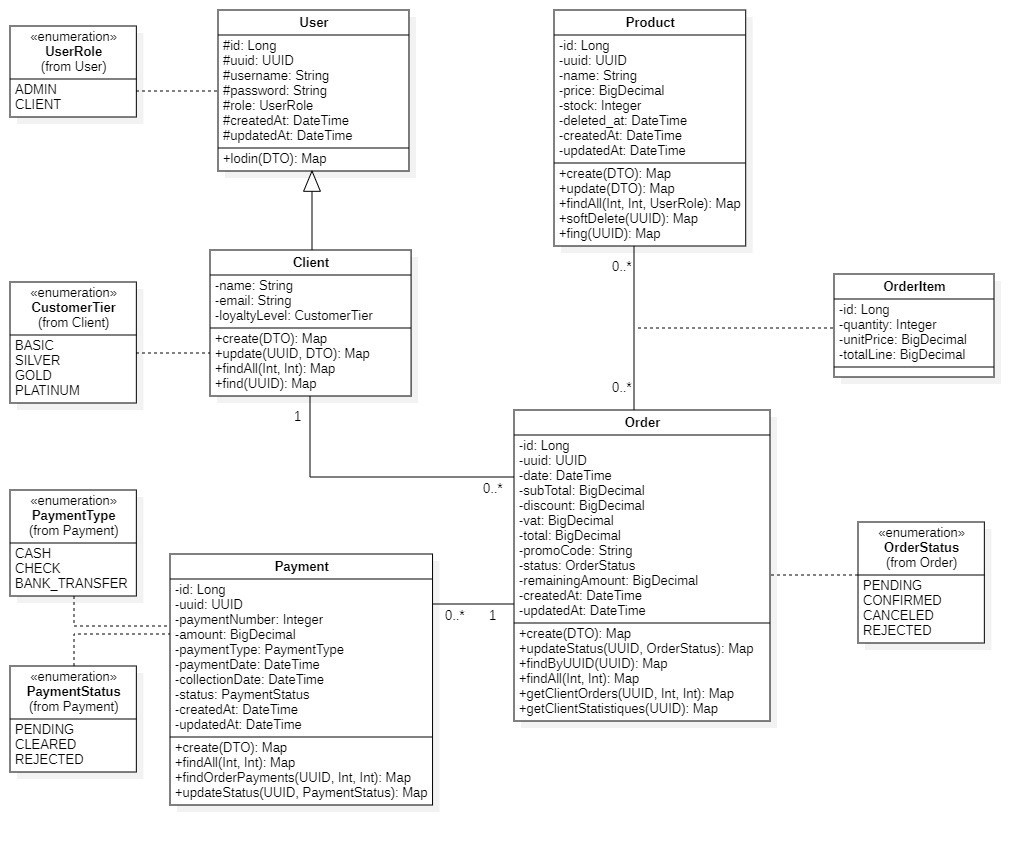
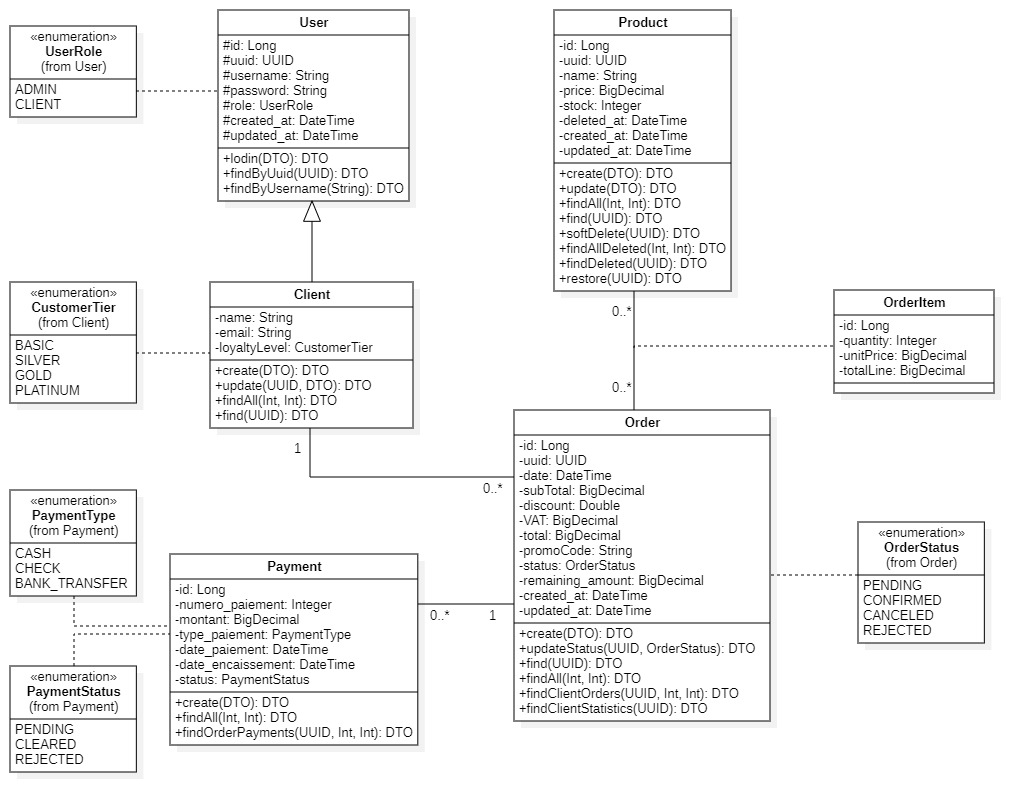
SMAR-42 Cree les interfaces OrderService et OrderRepository

diff --git a/src/main/java/com/smartshop/smartshop/service/interfaces/OrderService.java b/src/main/java/com/smartshop/smartshop/service/interfaces/OrderService.java
@@ -1,0 +1,16 @@
+package com.smartshop.smartshop.service.interfaces;
+
+import com.smartshop.smartshop.model.dto.ApiResponse;
+import com.smartshop.smartshop.model.dto.OrderDTO;
+
+import java.util.List;
+import java.util.UUID;
+
+public interface OrderService {
+    ApiResponse<OrderDTO> create(OrderDTO dto);
+    ApiResponse<OrderDTO> update(UUID uuid, OrderDTO dto);
+    ApiResponse<List<OrderDTO>> findAll(Integer page, Integer size);
+    ApiResponse<OrderDTO> find(UUID uuid);
+    ApiResponse<List<OrderDTO>> findClientOrders(UUID uuid, Integer page, Integer size);
+    ApiResponse<OrderDTO> findClientStatistics(UUID uuid);
+}

diff --git a/src/main/java/com/smartshop/smartshop/repository/OrderRepository.java b/src/main/java/com/smartshop/smartshop/repository/OrderRepository.java
@@ -1,0 +1,13 @@
+package com.smartshop.smartshop.repository;
+
+import com.smartshop.smartshop.model.entity.Order;
+import org.springframework.data.domain.Page;
+import org.springframework.data.domain.Pageable;
+import org.springframework.data.jpa.repository.JpaRepository;
+
+import java.util.Optional;
+import java.util.UUID;
+
+public interface OrderRepository extends JpaRepository<Order, UUID> {
+    Optional<Order> findByUuid(UUID uuid);
+}
